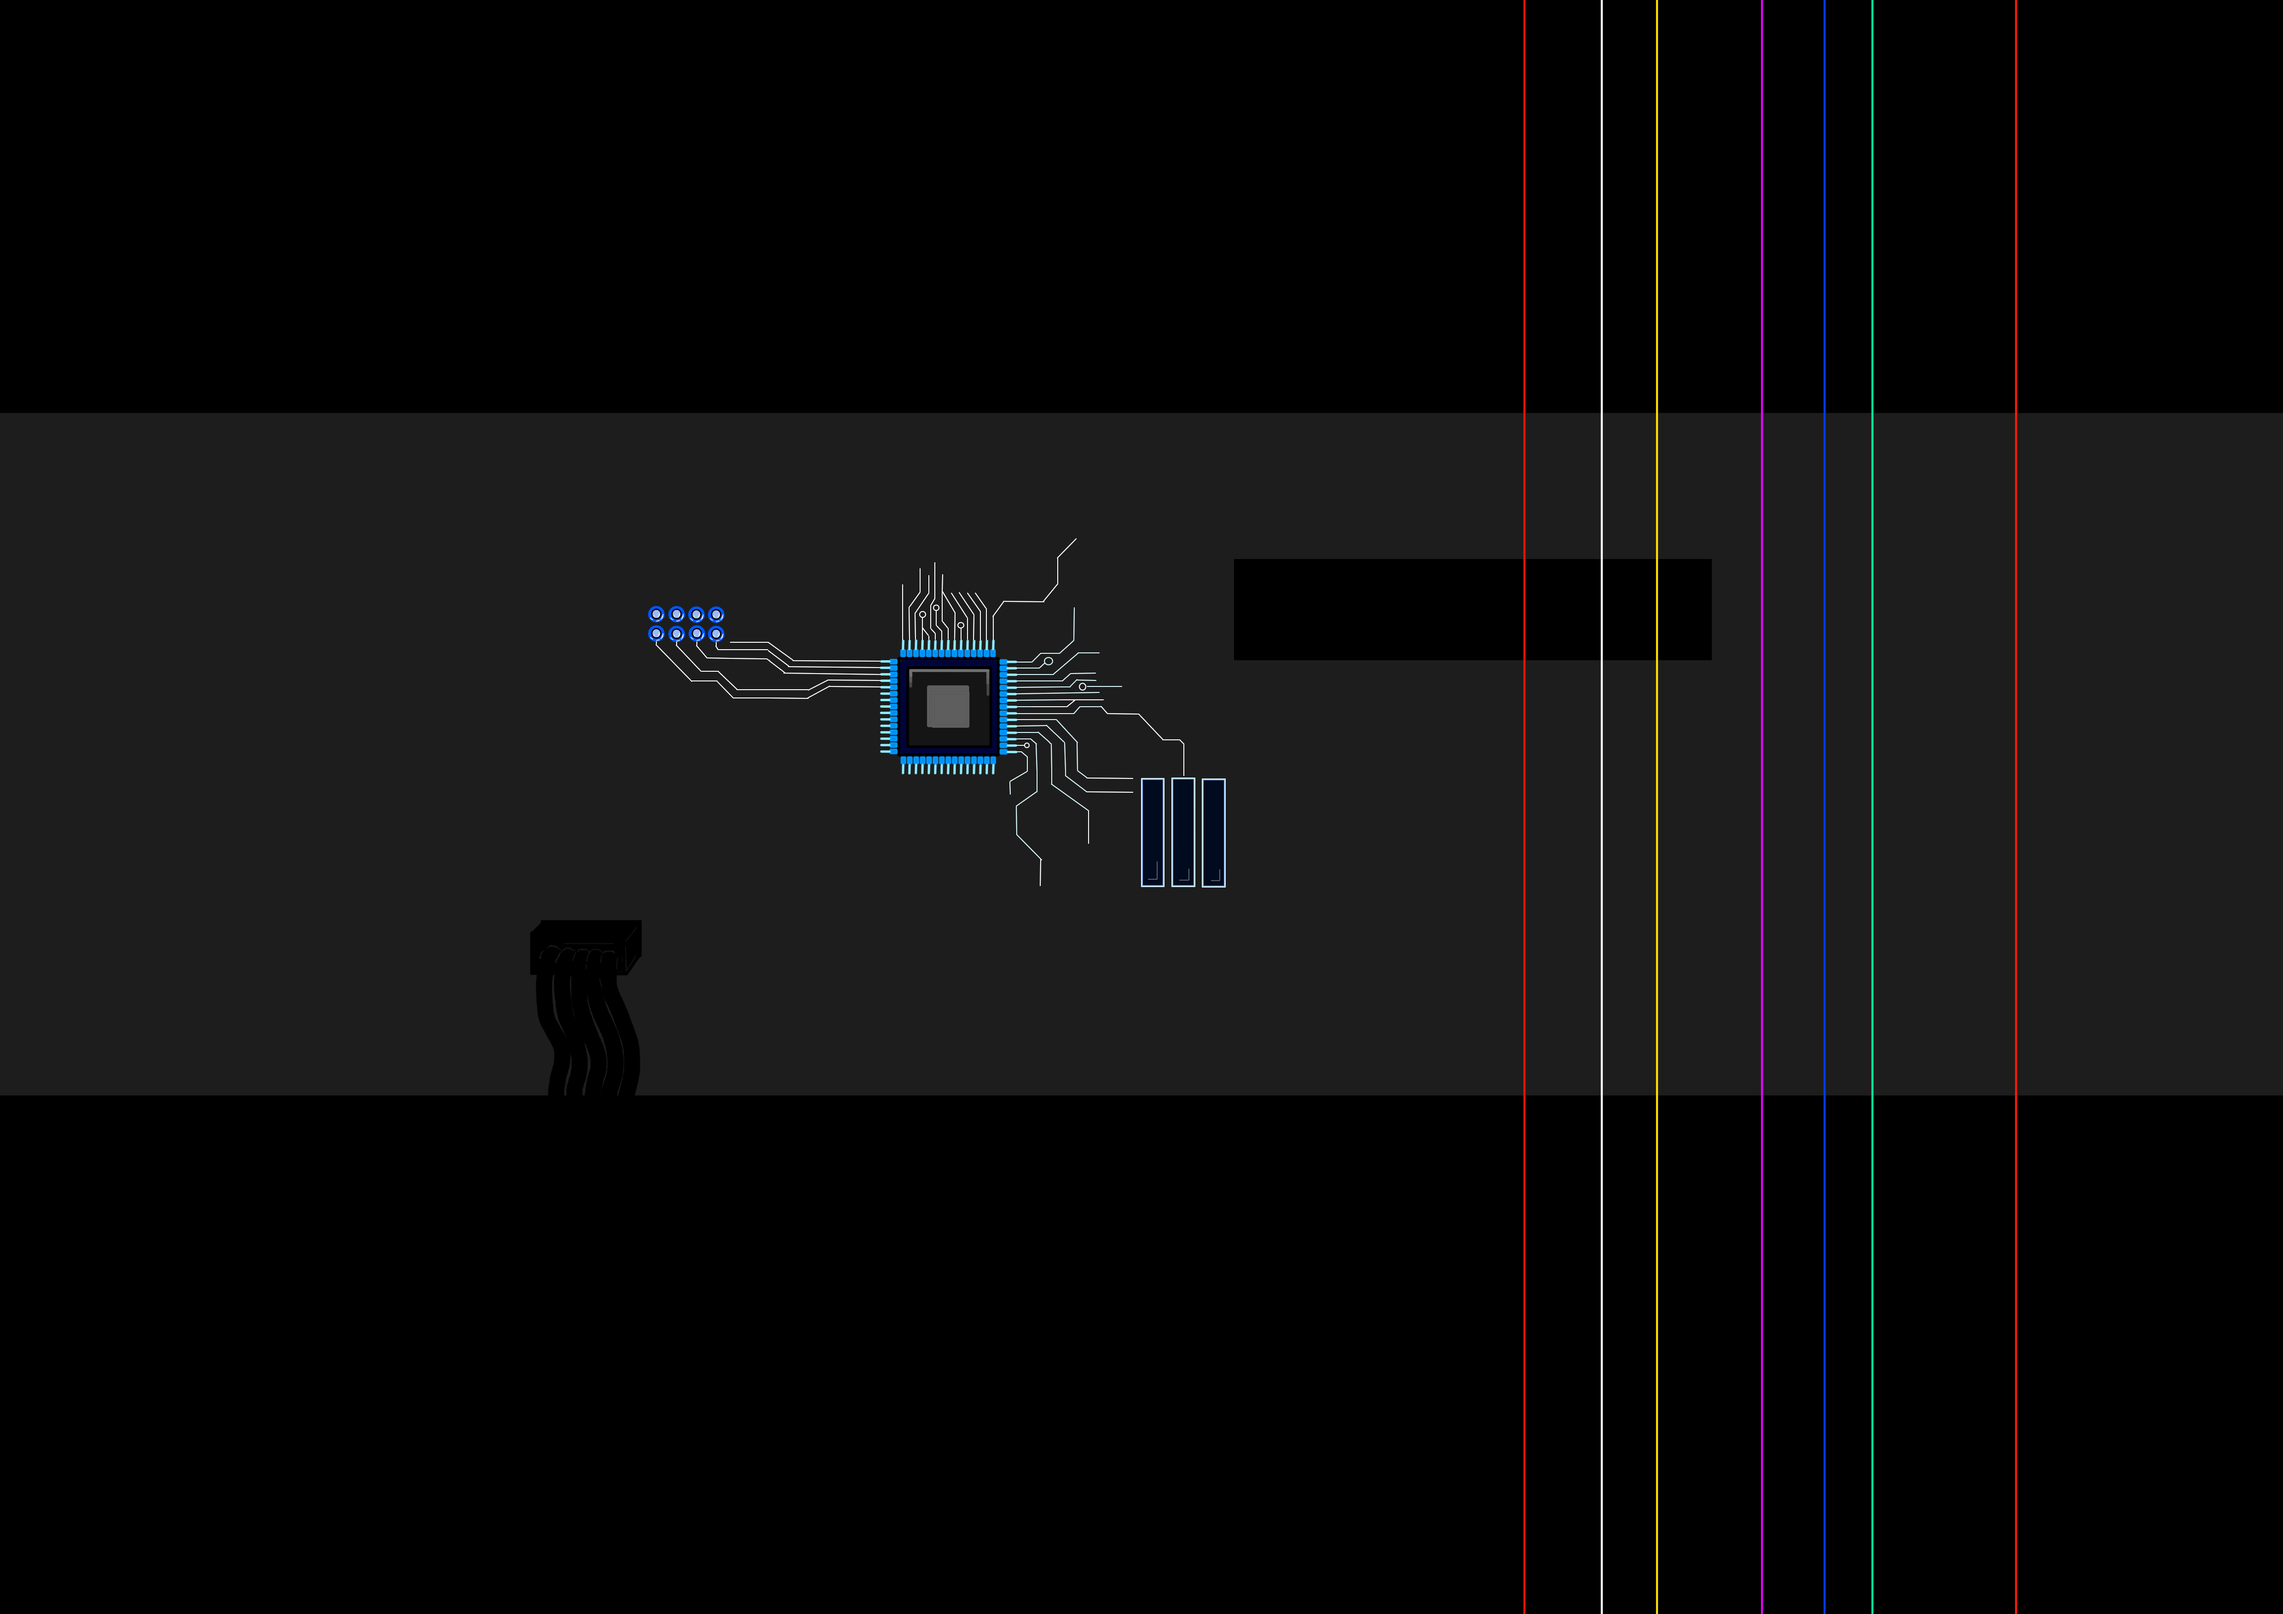
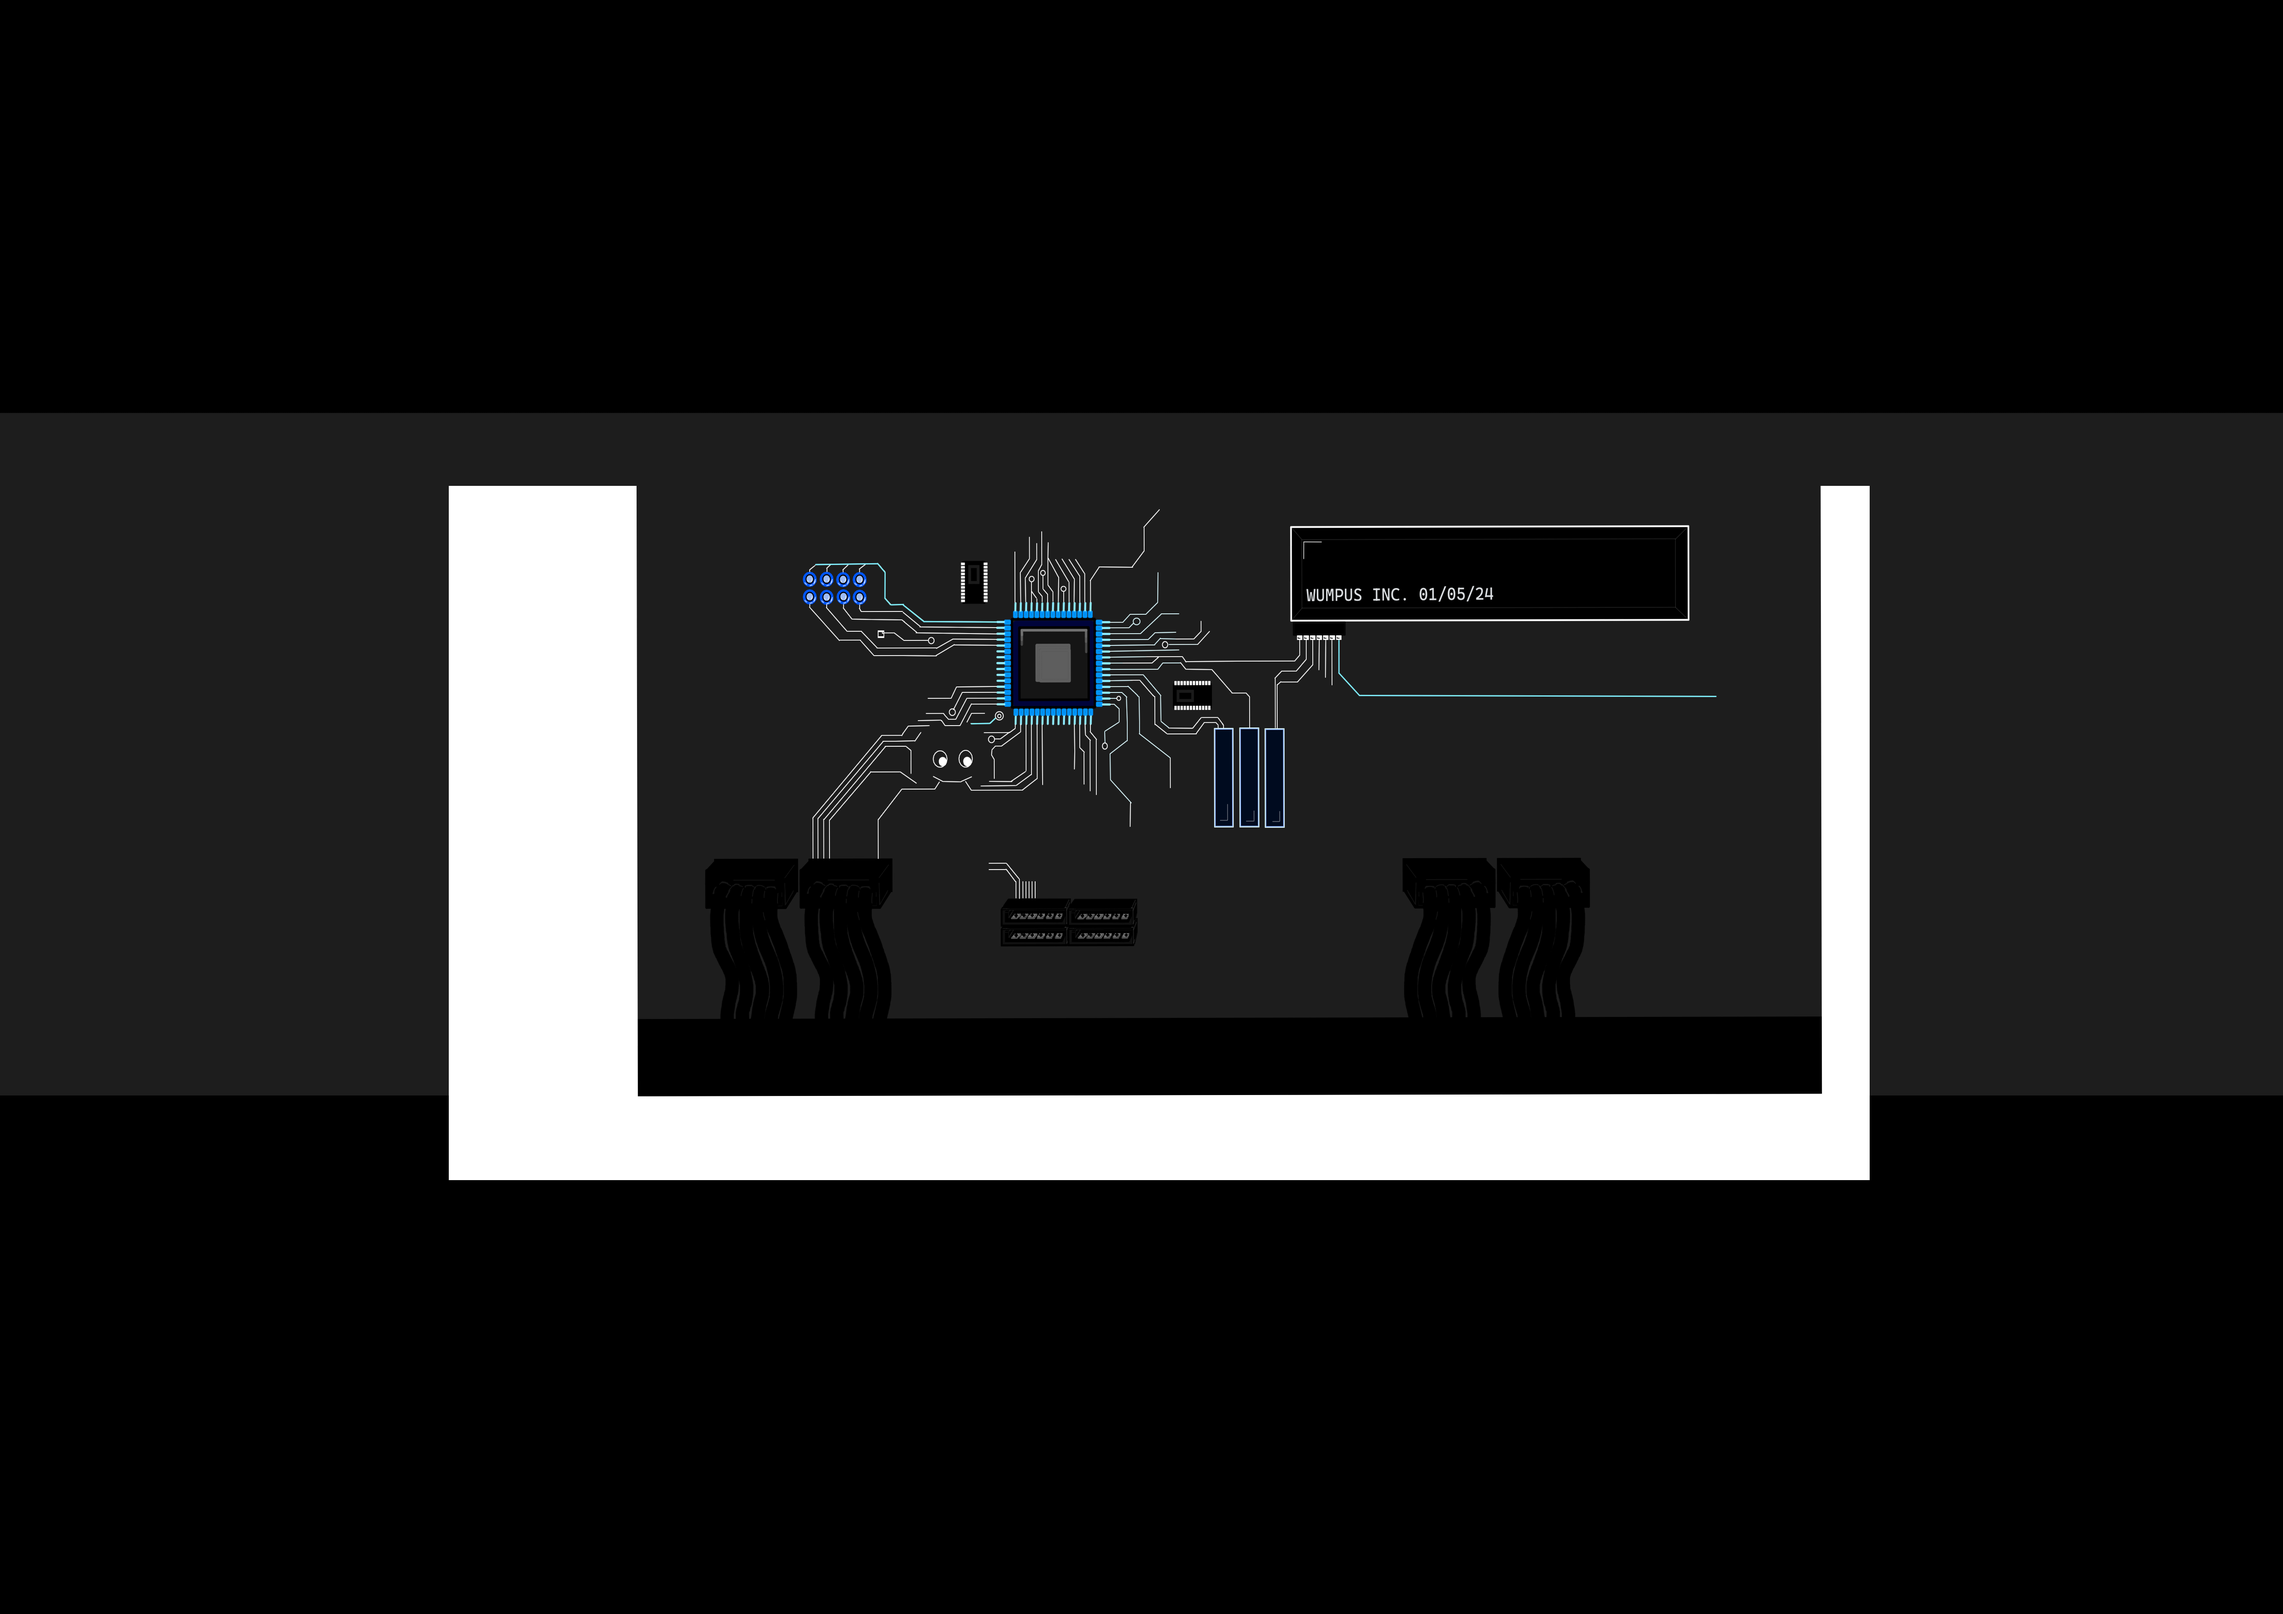
added html loading screen template

Changed region(s): [[0.1875, 0.2796, 0.8438, 0.7457], [0.3438, 0.3107, 0.75, 0.5593], [0.4375, 0.5282, 0.5, 0.5904]]

diff --git a/html/index.html b/html/index.html
@@ -1,0 +1,68 @@
+<!DOCTYPE html>
+<html>
+
+<head>
+    <title>Escape the Server!</title>
+    <meta charset="UTF-8">
+    <link rel="stylesheet" href="styles.css">
+</head>
+
+<body>
+    <div id="loading-container">
+        <h2 class="loading-text text-center">
+            <span id="char1" class="char animation-text1" style="color: red">ESCAPE THE SERVER</span>
+            <span id="char2" class="char animation-text1">IS CURRENTLY</span>
+            <span id="char3" class="char animation-text1">LOADING</span>
+        </h2>
+        <h2 class="loading-dot text-center" style="margin-left: 5px;">
+            <span id="dot1" class="dot animation1" style="color: red">.</span>
+            <span id="dot2" class="dot animation1">.</span>
+            <span id="dot3" class="dot animation1">.</span>
+        </h2>
+    </div>
+    <canvas id="canvas"></canvas>
+
+    <script src="$GODOT_URL"></script>
+    <script>
+        var engine = new Engine($GODOT_CONFIG);
+        const loadingText = document.querySelector('.loading-text .char');
+        const dot = document.querySelector('.loading-dot');
+
+        engine.startGame();
+
+        setTimeout(() => {
+            document.querySelectorAll('.loading-text .char').forEach(char => {
+                char.style.opacity = 1;
+            });
+            document.querySelectorAll('.loading-dot .dot').forEach(dot => {
+                dot.style.opacity = 1;
+            });
+        }, 3000);
+        setTimeout(() => {
+            startSecondAnimation(0);
+            const charText = document.getElementById("char3");
+        }, 4130);
+        setTimeout(() => {
+            startSecondAnimation(1);
+            const charText = document.getElementById("char3");
+        }, 4460);
+        setTimeout(() => {
+            startSecondAnimation(2);
+            const charText = document.getElementById("char3");
+        }, 4790);
+
+        function startSecondAnimation(index) {
+            dot.querySelectorAll('.dot').forEach((dot, ind) => {
+                if (ind === index) {
+                    dot.classList.remove("animation1");
+                    dot.style.animationDelay = `0s`;
+                    dot.classList.add("animation2");
+                    dot.style.animationPlayState = 'running';
+                }
+            });
+        }
+
+    </script>
+</body>
+
+</html>
